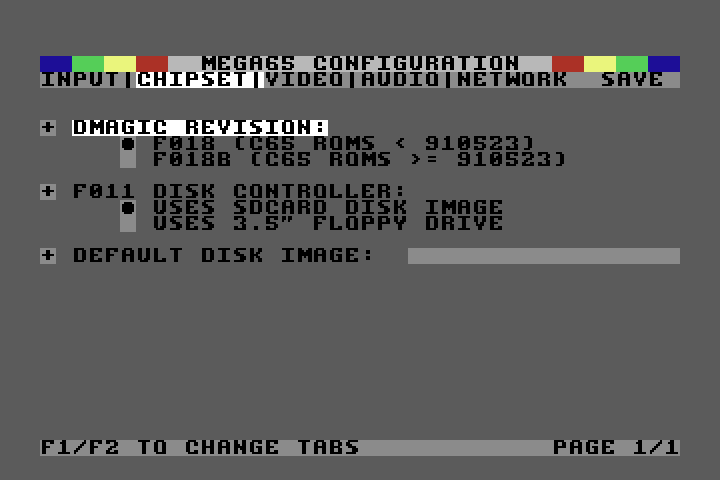
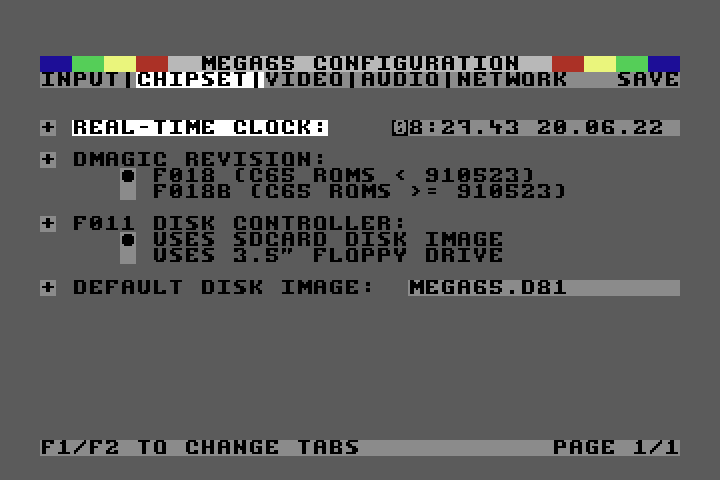
update configure programme instructions to show RTC settings

Changed region(s): [[0.0306, 0.25, 0.9472, 0.625], [0.825, 0.1562, 0.9472, 0.1875]]

diff --git a/configuring.tex b/configuring.tex
@@ -213,6 +213,13 @@ option to save the changes. This will give you four options:
 \includegraphics[width=\linewidth]{images/ss-m65config-2.png}
 
 \begin{itemize}
+  \item{em Real-Time Clock} allows setting the MEGA65's Real-Time
+    Clock for those models that include one.  To set the clock or
+    calendar simply edit the field and press the \specialkey{RETURN}
+    key.  The display does not change while viewing this page, but if
+    you use the cursor left and right keys to select another page and
+    return to this page, the values will update if a Real-Time Clock
+    is fitted and functioning.
   \item{\em DMAgic Revision} allows selecting the default mode of
     operation for the C65 DMAgic DMA controller.  This option is only
     required for ROMs that the MEGA65's HYPPO Hypervisor does not
